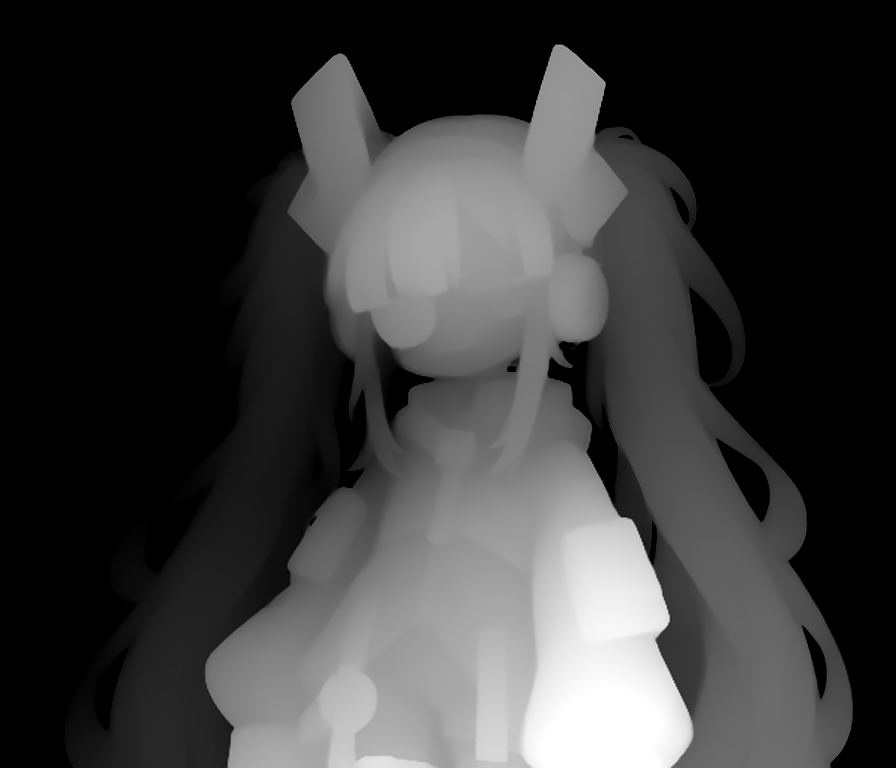
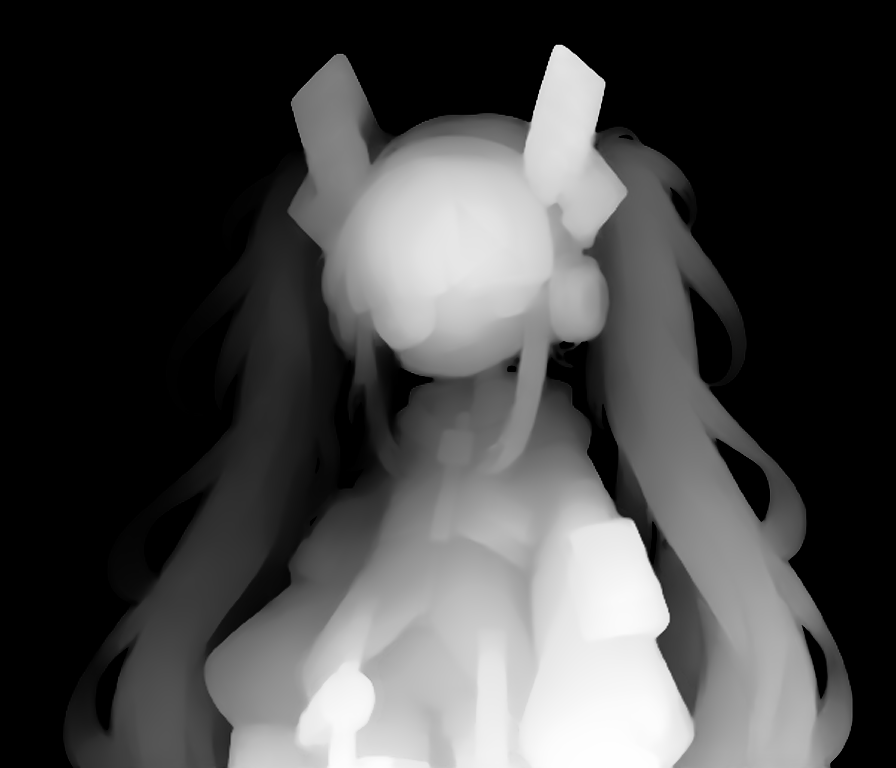
Character depth map from Depth Anything V2 Small (Apache-2.0), stored by rank
The previous map came from the Large model, whose weights are CC BY-NC 4.0.
Storing the depth as a rank inside the character keeps the player's thresholds
meaning the same whatever depth model made the map.

diff --git a/docs/formats.md b/docs/formats.md
@@ -75,7 +75,7 @@
 - `mouth`：口の開き具合（1 = 半開き、2 = 開き）に使う画像
 - `eye`：まばたき（`blink` 閉じた目、`half` 半目。`half` があると「半目→閉じ→半目」と滑らかになる）、左右を見るときに使う画像
 - `expressions`：表情ごとに、使う目と口の画像（`{"eye", "mouth"}`、片方だけでもよい）。いまはエンディングで `smile` を使う
-- `depth`（任意）：奥行きの白黒画像（手前ほど白い）。顔の向き、呼吸、後ろ髪の揺れに使う
+- `depth`（任意）：奥行きの白黒画像（手前ほど白い）。顔の向き、呼吸、後ろ髪の揺れに使う。キャラの中での「奥から何番目か」の割合（いちばん奥 0、いちばん手前 1、背景 0）で入れておくと、どの深度推定モデルで作っても同じように動く
 - `background`：キャラの後ろの色
 
 ### `"type": "clips"`（短い映像をつなぐ）
